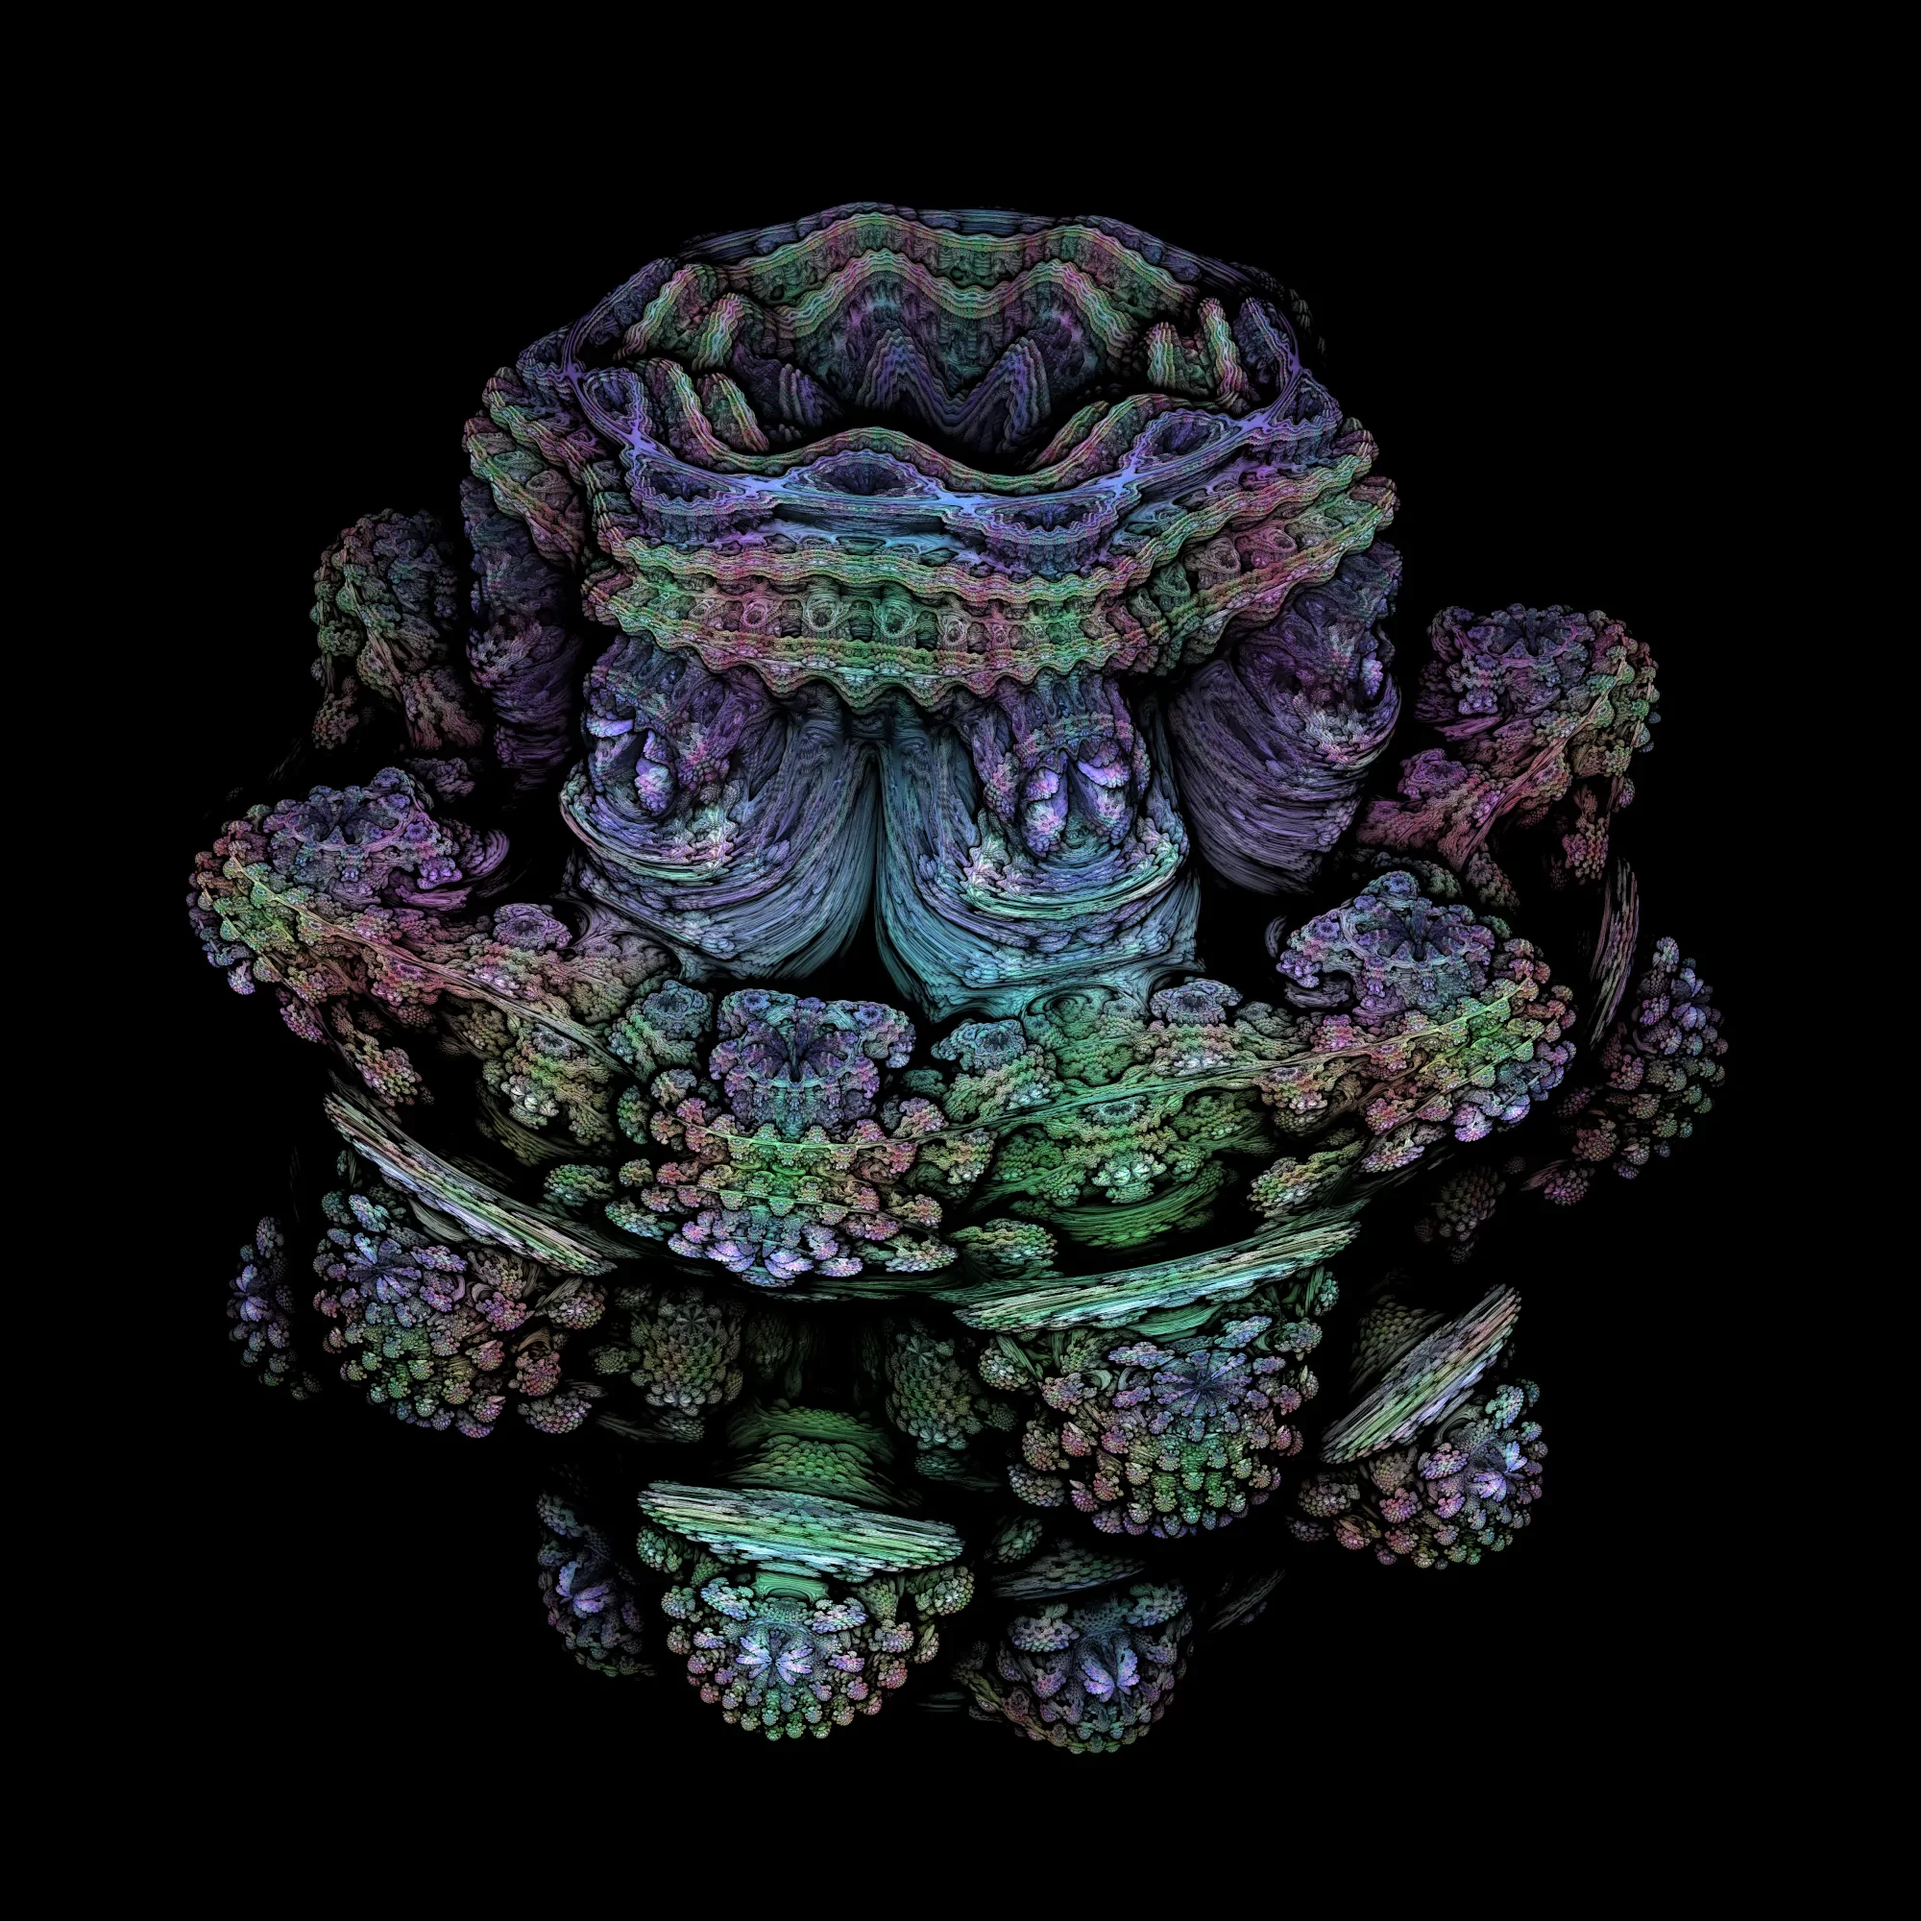
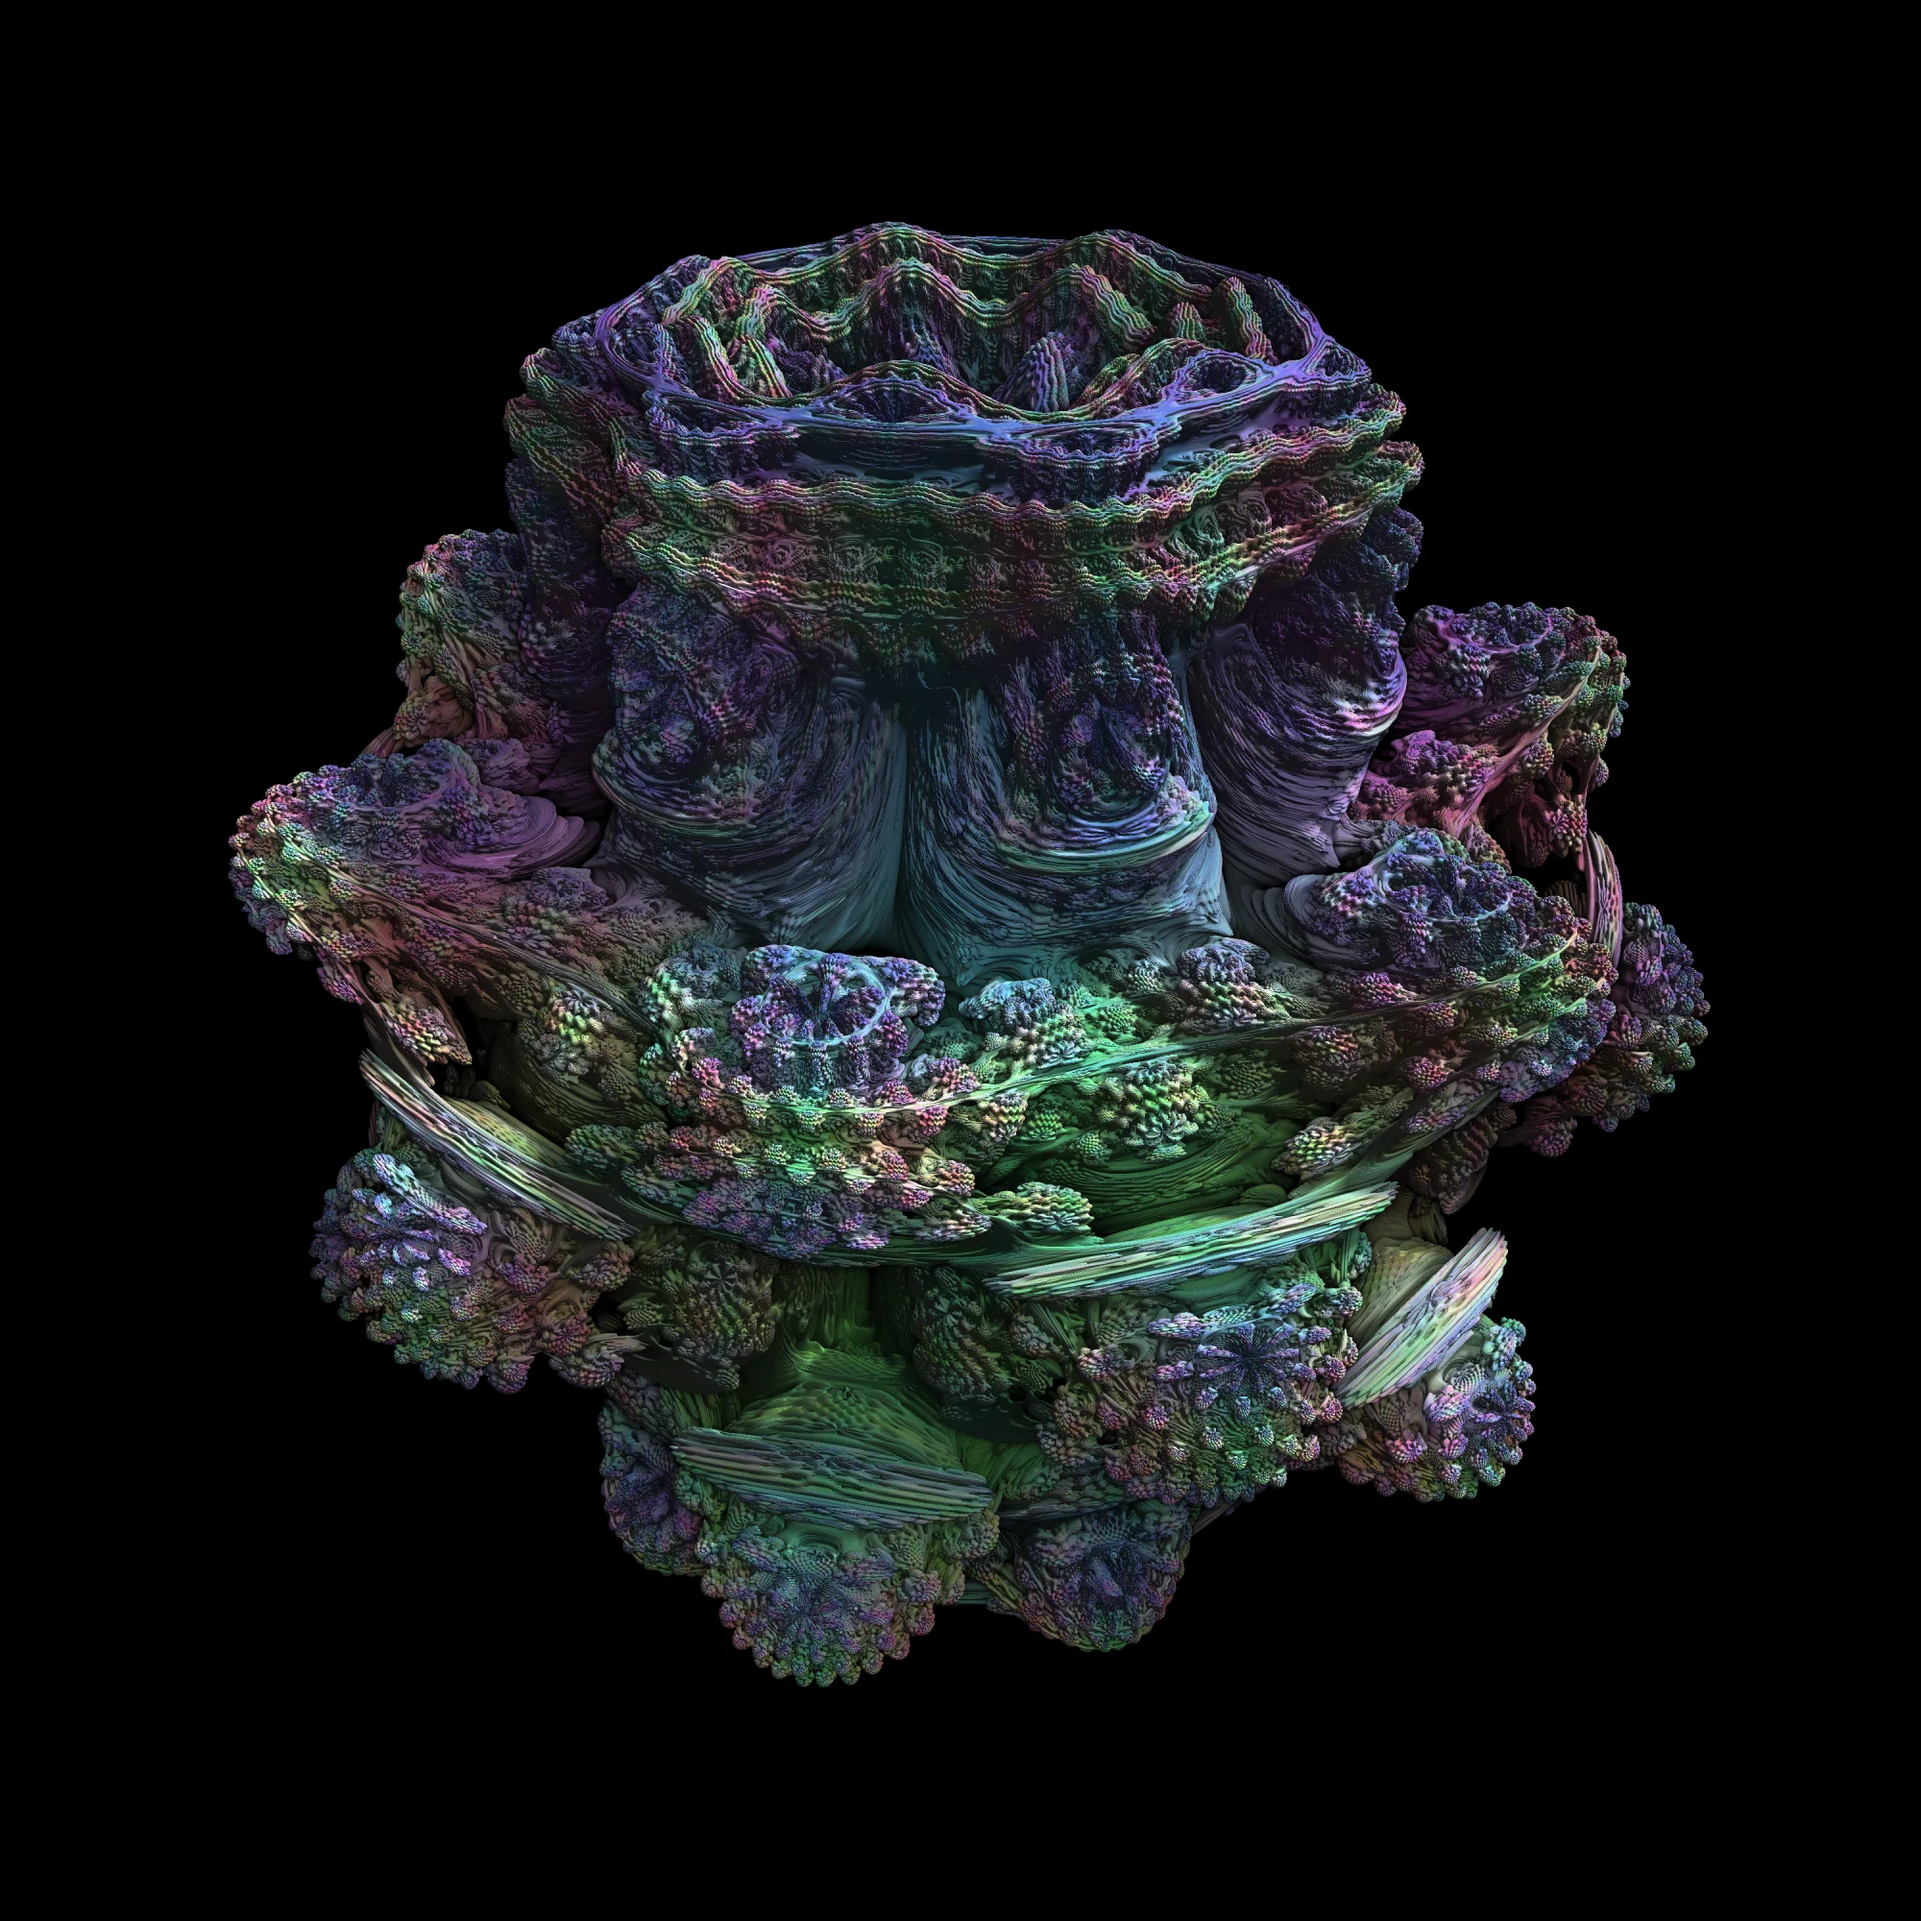
Automated the construction of gallery images and thumbnails

diff --git a/applets/the-mandelbulb/scripts/index.min.js b/applets/the-mandelbulb/scripts/index.min.js
@@ -1,1 +1,1 @@
-import{showPage}from"../../../scripts/src/loadPage.min.js";import{Mandelbulb}from"./class.min.js";import{Button,ToggleButton}from"/scripts/src/buttons.min.js";import{Checkbox}from"/scripts/src/checkboxes.min.js";import{$}from"/scripts/src/main.min.js";import{typesetMath}from"/scripts/src/math.min.js";import{siteSettings}from"/scripts/src/settings.min.js";import{Slider}from"/scripts/src/sliders.min.js";import{TextBox}from"/scripts/src/textBoxes.min.js";export default function(){const e=new Mandelbulb({canvas:$("#output-canvas")}),n=(new ToggleButton({element:$("#switch-bulb-button"),name0:"Switch to Juliabulb",name1:"Return to Mandelbulb",onClick0:()=>e.switchBulb(),onClick1:()=>e.switchBulb()}),new Button({element:$("#download-button"),name:"Download",onClick:()=>{e.uniforms.juliaProportion[1]<.5?e.wilson.downloadFrame("the-mandelbulb.png"):e.wilson.downloadFrame("a-juliabulb.png")}}),new TextBox({element:$("#resolution-input"),name:"Resolution",value:400,minValue:100,maxValue:750,onInput:function(){e.changeResolution(n.value*siteSettings.resolutionMultiplier)}})),t=new Slider({element:$("#power-slider"),name:"Power",value:8,min:2,max:16,snapPoints:[8],onInput:c}),o=new Slider({element:$("#c-x-slider"),name:"$c_x$",value:0,min:-1,max:1,onInput:c}),a=new Slider({element:$("#c-y-slider"),name:"$c_y$",value:0,min:-1,max:1,onInput:c}),l=new Slider({element:$("#c-z-slider"),name:"$c_z$",value:0,min:-1,max:1,onInput:c}),i=new Slider({element:$("#rotation-angle-x-slider"),name:"$\\theta_x$",value:0,min:0,max:Math.PI,onInput:c}),s=new Slider({element:$("#rotation-angle-y-slider"),name:"$\\theta_y$",value:0,min:0,max:Math.PI,onInput:c}),r=new Slider({element:$("#rotation-angle-z-slider"),name:"$\\theta_z$",value:0,min:0,max:Math.PI,onInput:c}),m=new Checkbox({element:$("#shadows-checkbox"),name:"Shadows",onInput:d}),u=new Checkbox({element:$("#lock-on-origin-checkbox"),name:"Lock on origin",checked:!0,onInput:d});function c(){e.setUniform("c",[o.value,a.value,l.value]),e.setUniform("power",t.value),e.rotationAngleX=i.value,e.rotationAngleY=s.value,e.rotationAngleZ=r.value,e.updateRotationMatrix()}function d(){e.setLockedOnOrigin(u.checked),e.useShadows!==m.checked&&(e.useShadows=m.checked,e.reloadShader())}typesetMath(),showPage()}
+import{showPage}from"../../../scripts/src/loadPage.min.js";import{Mandelbulb}from"./class.min.js";import{Button,ToggleButton}from"/scripts/src/buttons.min.js";import{Checkbox}from"/scripts/src/checkboxes.min.js";import{$}from"/scripts/src/main.min.js";import{typesetMath}from"/scripts/src/math.min.js";import{siteSettings}from"/scripts/src/settings.min.js";import{Slider}from"/scripts/src/sliders.min.js";import{TextBox}from"/scripts/src/textBoxes.min.js";export default function(){const e=new Mandelbulb({canvas:$("#output-canvas")}),n=(new ToggleButton({element:$("#switch-bulb-button"),name0:"Switch to Juliabulb",name1:"Return to Mandelbulb",onClick0:()=>e.switchBulb(),onClick1:()=>e.switchBulb()}),new Button({element:$("#download-button"),name:"Download",onClick:()=>{e.uniforms.juliaProportion[1]<.5?e.wilson.downloadFrame("the-mandelbulb.png"):e.wilson.downloadFrame("a-juliabulb.png")}}),new TextBox({element:$("#resolution-input"),name:"Resolution",value:400,minValue:100,maxValue:750,onInput:function(){e.changeResolution(n.value*siteSettings.resolutionMultiplier)}})),t=new Slider({element:$("#power-slider"),name:"Power",value:8,min:2,max:16,snapPoints:[8],onInput:c}),o=new Slider({element:$("#c-x-slider"),name:"$c_x$",value:0,min:-1,max:1,snapPoints:[0],onInput:c}),a=new Slider({element:$("#c-y-slider"),name:"$c_y$",value:0,min:-1,max:1,snapPoints:[0],onInput:c}),i=new Slider({element:$("#c-z-slider"),name:"$c_z$",value:0,min:-1,max:1,snapPoints:[0],onInput:c}),l=new Slider({element:$("#rotation-angle-x-slider"),name:"$\\theta_x$",value:0,min:0,max:Math.PI,onInput:c}),s=new Slider({element:$("#rotation-angle-y-slider"),name:"$\\theta_y$",value:0,min:0,max:Math.PI,onInput:c}),r=new Slider({element:$("#rotation-angle-z-slider"),name:"$\\theta_z$",value:0,min:0,max:Math.PI,onInput:c}),m=new Checkbox({element:$("#shadows-checkbox"),name:"Shadows",onInput:p}),u=new Checkbox({element:$("#lock-on-origin-checkbox"),name:"Lock on origin",checked:!0,onInput:p});function c(){e.setUniform("c",[o.value,a.value,i.value]),e.setUniform("power",t.value),e.rotationAngleX=l.value,e.rotationAngleY=s.value,e.rotationAngleZ=r.value,e.updateRotationMatrix()}function p(){e.setLockedOnOrigin(u.checked),e.useShadows!==m.checked&&(e.useShadows=m.checked,e.reloadShader())}typesetMath(),showPage()}

diff --git a/applets/the-mandelbulb/scripts/class.min.js b/applets/the-mandelbulb/scripts/class.min.js
@@ -73,4 +73,4 @@ import anime from"/scripts/anime.min.js";import{RaymarchApplet}from"/scripts/app
 			color /= max(max(color.x, color.y), color.z);
 			
 			return color;
-		`,uniforms:{power:["float",8],c:["vec3",[0,0,0]],juliaProportion:["float",0],rotationMatrix:["mat3",[[1,0,0],[0,1,0],[0,0,1]]]},theta:4.6601,phi:2.272,cameraPos:[.0718,1.6264,1.4416],lightPos:[10,0,10],lightBrightness:1.3})}updateRotationMatrix(){this.setUniform("rotationMatrix",RaymarchApplet.getRotationMatrix(this.rotationAngleX,this.rotationAngleY,this.rotationAngleZ)),this.needNewFrame=!0}distanceEstimator(x,y,z){let t=[x,y,z],o=0,r=1;var a=this.uniforms.c[1],i=this.uniforms.juliaProportion[1],e=this.uniforms.power[1],n=this.uniforms.rotationMatrix[1];for(let h=0;h<16&&!(16<(o=Math.sqrt(RaymarchApplet.dotProduct(t,t))));h++){var s=Math.acos(t[2]/o),l=Math.atan2(t[1],t[0]),p=(r=Math.pow(o,e-1)*e*r+1,s*=e,l*=e,Math.pow(o,e));t[0]=p*Math.sin(s)*Math.cos(l)+((1-i)*x+i*a[0]),t[1]=p*Math.sin(s)*Math.sin(l)+((1-i)*y+i*a[1]),t[2]=p*Math.cos(s)+((1-i)*z+i*a[2]),t=RaymarchApplet.mat3TimesVector(n,t)}return.5*Math.log(o)*o/r}switchBulb(){const t={t:0},o=this.uniforms.juliaProportion[1],r=0===this.uniforms.juliaProportion[1]?1:0;anime({targets:t,t:1,duration:1e3,easing:"easeOutSine",update:()=>{this.setUniform("juliaProportion",(1-t.t)*o+t.t*r),this.needNewFrame=!0}})}}export{Mandelbulb};
+		`,uniforms:{power:["float",8],c:["vec3",[0,0,0]],juliaProportion:["float",0],rotationMatrix:["mat3",[[1,0,0],[0,1,0],[0,0,1]]]},theta:4.6601,phi:2.272,cameraPos:[.0718,1.6264,1.4416],lightPos:[-10,0,15],lightBrightness:1.25})}updateRotationMatrix(){this.setUniform("rotationMatrix",RaymarchApplet.getRotationMatrix(this.rotationAngleX,this.rotationAngleY,this.rotationAngleZ)),this.needNewFrame=!0}distanceEstimator(x,y,z){let t=[x,y,z],o=0,r=1;var a=this.uniforms.c[1],i=this.uniforms.juliaProportion[1],e=this.uniforms.power[1],n=this.uniforms.rotationMatrix[1];for(let h=0;h<16&&!(16<(o=Math.sqrt(RaymarchApplet.dotProduct(t,t))));h++){var s=Math.acos(t[2]/o),l=Math.atan2(t[1],t[0]),p=(r=Math.pow(o,e-1)*e*r+1,s*=e,l*=e,Math.pow(o,e));t[0]=p*Math.sin(s)*Math.cos(l)+((1-i)*x+i*a[0]),t[1]=p*Math.sin(s)*Math.sin(l)+((1-i)*y+i*a[1]),t[2]=p*Math.cos(s)+((1-i)*z+i*a[2]),t=RaymarchApplet.mat3TimesVector(n,t)}return.5*Math.log(o)*o/r}switchBulb(){const t={t:0},o=this.uniforms.juliaProportion[1],r=0===this.uniforms.juliaProportion[1]?1:0;anime({targets:t,t:1,duration:1e3,easing:"easeOutSine",update:()=>{this.setUniform("juliaProportion",(1-t.t)*o+t.t*r),this.needNewFrame=!0}})}}export{Mandelbulb};

diff --git a/build/makeGalleryImage.js b/build/makeGalleryImage.js
@@ -1,0 +1,44 @@
+import { spawn } from "child_process";
+import { read } from "./file-io.js";
+
+const root = process.argv[1].replace(/(\/cruzgodar.github.io\/).+$/, (match, $1) => $1);
+
+export async function makeGalleryImage(file)
+{
+	const filename = file.slice(file.lastIndexOf("/") + 1, file.lastIndexOf("."));
+
+	const htmdl = await read("gallery/index.htmdl");
+	const regex = new RegExp(`\\b${filename}\\b\\s(\\d+)`);
+	const match = htmdl.match(regex);
+	const size = match ? parseInt(match[1]) : null;
+	if (size === null)
+	{
+		throw new Error(`Could not find ${filename} in gallery/index.htmdl`);
+	}
+
+	await Promise.all([
+		spawn("cwebp", [
+			root + file,
+			"-q",
+			"85",
+			"-resize",
+			"2000",
+			"2000",
+			"-mt",
+			"-o",
+			`${root}gallery/high-res/${filename}.webp`,
+		]),
+
+		spawn("cwebp", [
+			root + file,
+			"-q",
+			"85",
+			"-resize",
+			`${size * 500}`,
+			`${size * 500}`,
+			"-mt",
+			"-o",
+			`${root}gallery/thumbnails/${filename}.webp`,
+		])
+	]);
+}

diff --git a/scripts/src/header.min.js b/scripts/src/header.min.js
@@ -3,7 +3,7 @@ import anime from"../anime.min.js";import{Checkbox}from"./checkboxes.min.js";imp
 		
 		<div id="header" style="opacity: 0">
 			<a id="header-logo" href="/home/">
-				<img src="/graphics/header-icons/logo.webp"></img>
+				<img src="/graphics/header-icons/logo.webp" alt="Cruz Godar"></img>
 				<span>Cruz Godar</span>
 			</a>
 			
@@ -40,7 +40,7 @@ import anime from"../anime.min.js";import{Checkbox}from"./checkboxes.min.js";imp
 			</div>
 
 			<div id="header-settings-button">
-				<input type="image" src="/graphics/header-icons/gear.webp" class="keep-accessibility-dialog-open">
+				<input type="image" src="/graphics/header-icons/gear.webp" alt="Settings" class="keep-accessibility-dialog-open">
 			</div>
 		</div>
 

diff --git a/scripts/src/header.js b/scripts/src/header.js
@@ -25,7 +25,7 @@ export function addHeader()
 		
 		<div id="header" style="opacity: 0">
 			<a id="header-logo" href="/home/">
-				<img src="/graphics/header-icons/logo.webp"></img>
+				<img src="/graphics/header-icons/logo.webp" alt="Cruz Godar"></img>
 				<span>Cruz Godar</span>
 			</a>
 			
@@ -62,7 +62,7 @@ export function addHeader()
 			</div>
 
 			<div id="header-settings-button">
-				<input type="image" src="/graphics/header-icons/gear.webp" class="keep-accessibility-dialog-open">
+				<input type="image" src="/graphics/header-icons/gear.webp" alt="Settings" class="keep-accessibility-dialog-open">
 			</div>
 		</div>
 

diff --git a/build/build.js b/build/build.js
@@ -3,6 +3,7 @@ import { buildSitemap, sitemapPath } from "./build-sitemap.js";
 import { buildXmlSitemap } from "./build-xml-sitemap.js";
 import { read, write } from "./file-io.js";
 import buildHTMLFile from "./htmdl/build.js";
+import { makeGalleryImage } from "./makeGalleryImage.js";
 
 const root = process.argv[1].replace(/(\/cruzgodar.github.io\/).+$/, (match, $1) => $1);
 
@@ -120,6 +121,13 @@ async function buildFile(file)
 
 			await buildCSSFile(file);
 		}
+	}
+
+	else if (file.includes("gallery/full-res"))
+	{
+		console.log(file);
+		
+		await makeGalleryImage(file);
 	}
 }
 

diff --git a/applets/the-mandelbulb/scripts/index.js b/applets/the-mandelbulb/scripts/index.js
@@ -64,6 +64,7 @@ export default function()
 		value: 0,
 		min: -1,
 		max: 1,
+		snapPoints: [0],
 		onInput: onSliderInput
 	});
 
@@ -73,6 +74,7 @@ export default function()
 		value: 0,
 		min: -1,
 		max: 1,
+		snapPoints: [0],
 		onInput: onSliderInput
 	});
 
@@ -82,6 +84,7 @@ export default function()
 		value: 0,
 		min: -1,
 		max: 1,
+		snapPoints: [0],
 		onInput: onSliderInput
 	});
 

diff --git a/applets/the-mandelbulb/scripts/class.js b/applets/the-mandelbulb/scripts/class.js
@@ -104,8 +104,8 @@ export class Mandelbulb extends RaymarchApplet
 			theta: 4.6601,
 			phi: 2.272,
 			cameraPos: [0.0718, 1.6264, 1.4416],
-			lightPos: [10, 0, 10],
-			lightBrightness: 1.3,
+			lightPos: [-10, 0, 15],
+			lightBrightness: 1.25,
 		});
 	}
 
